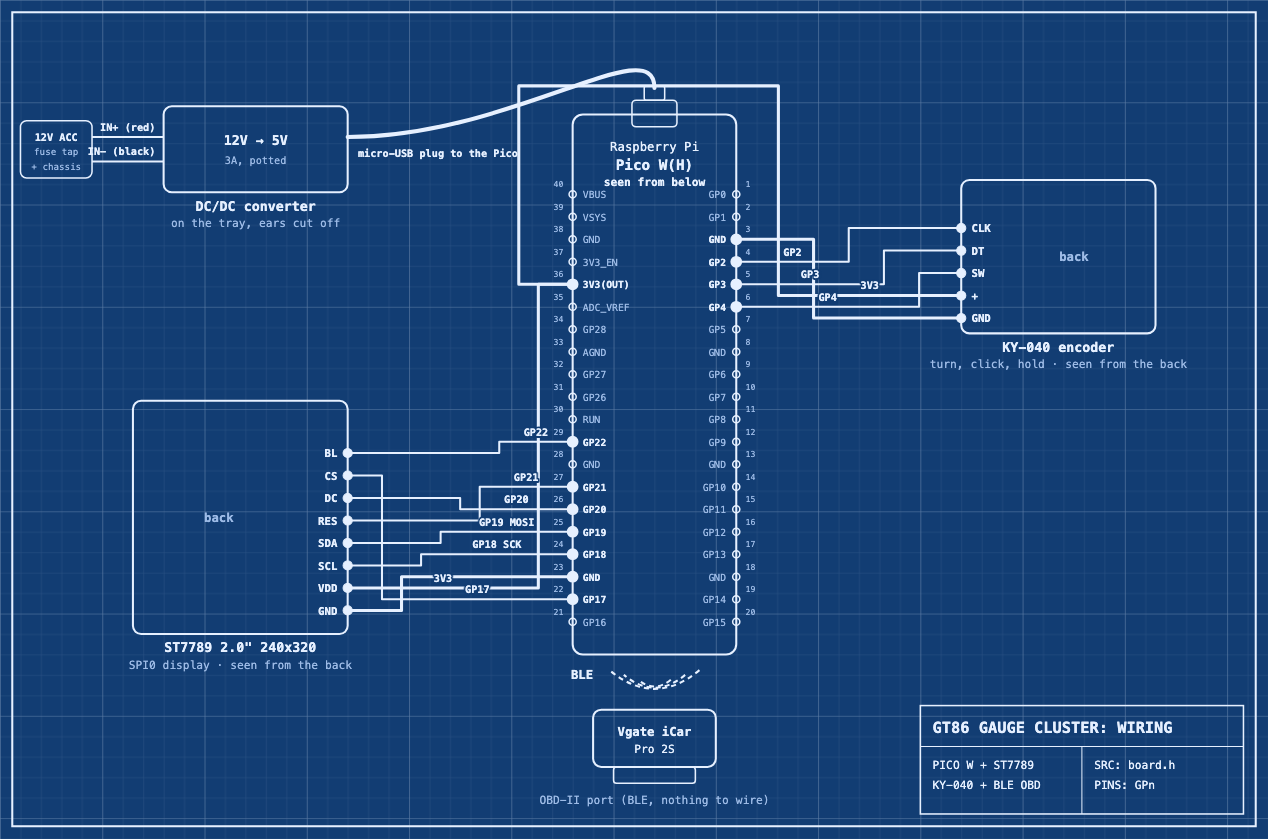
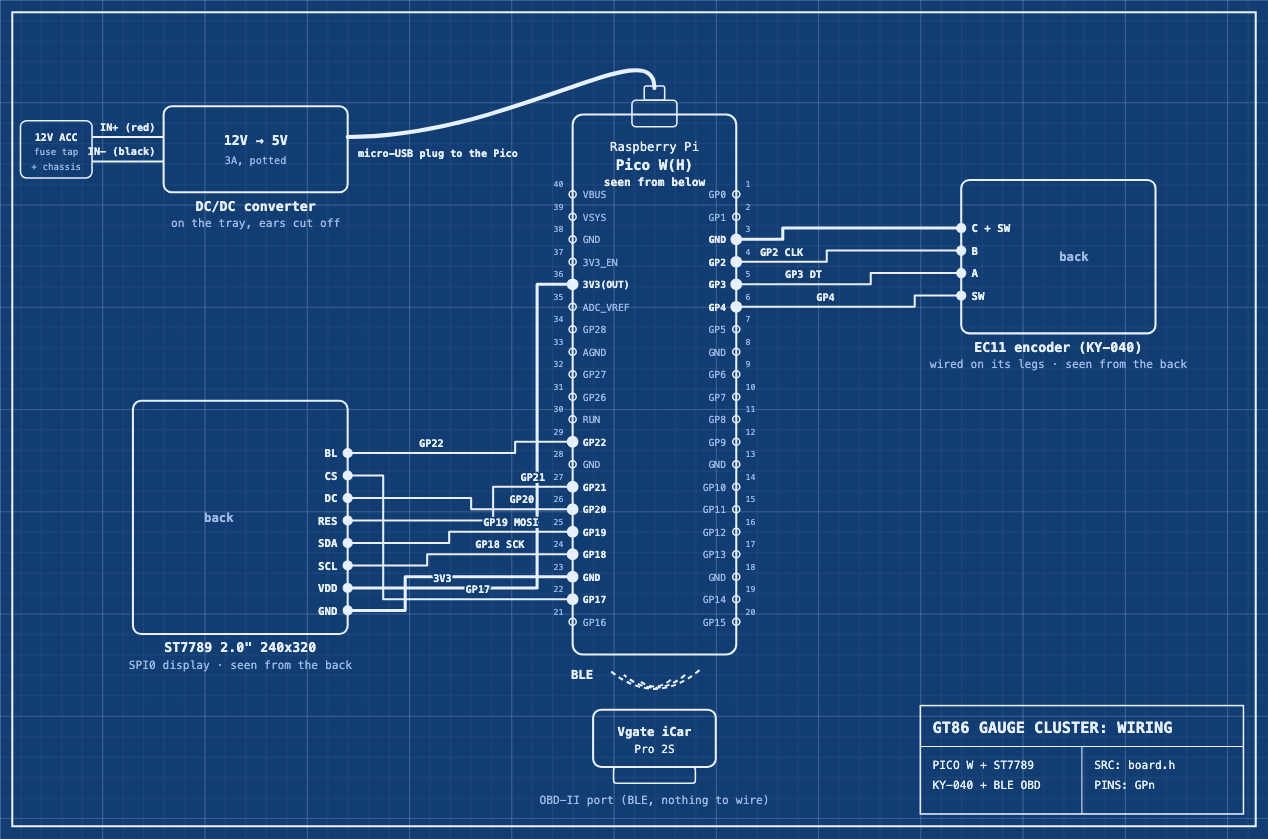
docs: encoder wired on its legs (A on GP3, B on GP2, no bridge, R2 and R3 removed) with a drawing of the board as soldered, OBD cable colors (CAN-H green, CAN-L green/white)

diff --git a/docs/wiring.html b/docs/wiring.html
@@ -24,6 +24,7 @@
   #diagram.dragging { cursor: grabbing; }
   #diagram .module { cursor: pointer; }
   nav .hint { align-self: center; font-size: 13px; opacity: 0.7; }
+  #encoder-legs { height: 540px; margin-top: 16px; border: 1px solid rgb(127 127 127 / 0.35); border-radius: 10px; }
   .notes { display: grid; gap: 12px; grid-template-columns: repeat(auto-fill, minmax(280px, 1fr)); margin-top: 16px; }
   .note { border: 1px solid rgb(127 127 127 / 0.35); border-radius: 10px; padding: 12px 14px; }
   .note b { display: block; margin-bottom: 4px; }
@@ -88,12 +89,13 @@
 </nav>
 <main id="wiring">
   <svg id="diagram" viewBox="0 0 1240 820" role="img" aria-label="Wiring diagram"></svg>
+  <svg id="encoder-legs" viewBox="0 0 1000 540" role="img" aria-label="The encoder's legs, soldered"></svg>
   <div class="notes">
     <div class="note"><b>Never 12V on the Pico</b>Only through the 12V to 5V converter, its micro-USB plug in the Pico's socket. Take a switched 12V (ACC/ignition fuse tap), not OBD pin 16: it stays live with the car off.</div>
-    <div class="note"><b>3.3V logic only</b>The encoder's + goes to 3V3(OUT), not 5V: its pull-ups would put 5V on the RP2040, which isn't 5V tolerant.</div>
+    <div class="note"><b>Encoder on its legs</b>Wires soldered straight on the EC11's legs, the KY-040 board's header unused: the Pico's internal pull-ups on GP2-4 replace the board's, nothing powers it. Turning the wrong way: swap A and B.</div>
     <div class="note"><b>Keep GP15 free</b>The pico-sdk borrows it at boot (RP2040-E5). GPIO23, 24, 25 and 29 belong to the wireless chip.</div>
     <div class="note"><b>OBD dongle: no wire</b>The Vgate iCar Pro 2S plugs into the OBD port; the Pico W talks to it over BLE. One client at a time: a phone connected to it hides it.</div>
-    <div class="note"><b>MCP2515 (wired CAN)</b>VCC on VBUS (5V). Its SO swings to 5V: level shift it before GP12. Remove jumper J1 (120Ω termination). 8MHz crystal, 500kbps.</div>
+    <div class="note"><b>MCP2515 (wired CAN)</b>VCC on VBUS (5V). Its SO swings to 5V: level shift it before GP12. Remove jumper J1 (120Ω termination). 8MHz crystal, 500kbps. On the OBD cable: CAN-H pin 6 green, CAN-L pin 14 green/white (the seller's chart: check with a multimeter); never pin 16, red, the battery's 12V.</div>
     <div class="note"><b>Flashing in the car</b>The Pico has one USB socket: unplug the converter's micro-USB, plug the Mac's cable instead.</div>
   </div>
 </main>
@@ -164,15 +166,19 @@ const MODULES = [
     ],
   },
   {
-    id: "encoder", kind: "encoder", name: "KY-040 encoder", sub: "turn, click, hold",
+    id: "encoder", kind: "encoder", name: "EC11 encoder (KY-040)", sub: "wired on its legs",
     x: 110, y: 176, w: 190, h: 150, side: "left", pinTop: 223,
-    // Front: knob up, header at the top, CLK DT SW + GND from the left.
+    // Soldered on the encoder's own legs, not the board's header: its row
+    // of 3 (A, C in the middle, B) and of 2 (the button). The Pico's internal pull-ups
+    // replace the board's, so no power goes to it. The board's traces
+    // tie C to one button leg: one GND wire for both. A on GP3 and B on
+    // GP2: the way that turns right on this car. R2 and R3 are removed. Listed in the Pico's order: no
+    // header to follow, so no wire crosses another.
     pins: [
-      { label: "CLK", pico: 4, net: "clk", wire: "GP2" },
-      { label: "DT", pico: 5, net: "dt", wire: "GP3" },
+      { label: "C + SW", pico: 3, net: "gnd" },
+      { label: "B", pico: 4, net: "clk", wire: "GP2 CLK" },
+      { label: "A", pico: 5, net: "dt", wire: "GP3 DT" },
       { label: "SW", pico: 6, net: "sw", wire: "GP4" },
-      { label: "+", pico: 36, net: "v33", wire: "3V3" },
-      { label: "GND", pico: 3, net: "gnd" },
     ],
   },
   {
@@ -190,8 +196,8 @@ const MODULES = [
     ],
     // The screw terminal, on the far edge: CAN-L above CAN-H seen from the front.
     edgePins: [
-      { label: "CAN-L", note: "OBD pin 14", net: "spi1" },
-      { label: "CAN-H", note: "OBD pin 6", net: "spi1" },
+      { label: "CAN-L", note: "OBD 14 · green/white", net: "spi1" },
+      { label: "CAN-H", note: "OBD 6 · green", net: "spi1" },
     ],
   },
 ];
@@ -486,7 +492,7 @@ function drawCar(svg, theme) {
     svgText(svg, theme, 660, 664, "BLE", { size: 12, weight: 700, color: link });
   }
   svgElement("rect", { x: 560, y: 750, width: 80, height: 16, rx: 3, fill: theme.board ? "#57534e" : "none", stroke, "stroke-width": 1.5 }, svg);
-  const port = wiringView.source === "ble" ? "OBD-II port (BLE, nothing to wire)" : "OBD-II port: CAN-H pin 6, CAN-L pin 14";
+  const port = wiringView.source === "ble" ? "OBD-II port (BLE, nothing to wire)" : "OBD-II port: CAN-H pin 6 (green), CAN-L pin 14 (green/white)";
   svgText(svg, theme, 600, 786, port, { size: 11, anchor: "middle", color: theme.dim });
 }
 
@@ -536,8 +542,134 @@ function drawDiagram(style) {
   }
   drawCar(layer, theme);
   mirrored = false;
+  drawEncoderLegs(theme);
   document.body.className = style;
   showSelectedNet();
+}
+
+// The KY-040 seen from its back, as screwed on the dash (header at the
+// top), wired on the encoder's own legs: its header's pads are gone. The
+// legs' places are read off a photo of the board, in mm from its top
+// left corner. Not mirrored with the Pico: it shows the board as you see
+// it with the iron in hand.
+const ENCODER_LEGS = {
+  board: [18.5, 26],
+  header: [3.9, 6.44, 8.98, 11.52, 14.06].map((x, i) => ({ x, y: 1.9, label: ["GND", "+", "SW", "DT", "CLK"][i] })),
+  shaft: [8.9, 15],
+  rivets: [[1.6, 6.3], [1.6, 19.8]],
+  // R2 and R3, A's and B's pull-ups to +: with the + pad gone, they tie A
+  // and B together through 20K, and the knob skips every other click.
+  // Removed: the Pico's own pull-ups do the job. R1 (the button's) is empty.
+  resistors: [{ label: "R2 remove", x: [9, 11.7], y: 14.6 }, { label: "R3 remove", x: [9, 11.7], y: 17.9 }],
+  r1: { x: 11.4, y: [10.3, 12.3] },
+  // The board's own traces tie C to the button's left leg: the right one,
+  // next to R1, is the button's signal. Bridging C to it shorts the button.
+  legs: [
+    { x: 6.4, y: 8, label: "SW", net: "gnd" },
+    { x: 11.4, y: 8, label: "SW", net: "sw", to: "GP4 · Pico pin 6", route: [[11.4, 4.6]] },
+    { x: 6.4, y: 22.5, label: "A", net: "dt", to: "GP3 · Pico pin 5", route: [[6.4, 25.4]] },
+    { x: 8.9, y: 22.5, label: "C", net: "gnd", to: "GND · Pico pin 3", route: [[8.9, 24.4]] },
+    { x: 11.4, y: 22.5, label: "B", net: "clk", to: "GP2 · Pico pin 4", route: [[11.4, 23.4]] },
+  ],
+  // C to the button's left leg, through the board: nothing to solder.
+  trace: [[6.4, 8], [4.6, 9.5], [4.6, 20.5], [8.9, 22.5]],
+};
+
+function drawEncoderLegs(theme) {
+  const svg = document.getElementById("encoder-legs");
+  svg.replaceChildren();
+  svgElement("rect", { x: 0, y: 0, width: 1000, height: 540, fill: theme.background }, svg);
+  const e = ENCODER_LEGS;
+  const S = 16; // px per mm
+  const [ox, oy] = [110, 96];
+  const at = ([x, y]) => [ox + x * S, oy + y * S];
+  const labelX = ox + 24 * S;
+  const light = theme.board ? "#fff" : theme.text;
+  const dark = theme.board ? "#0b1220" : theme.background;
+  svgText(svg, theme, 24, 34, "KY-040 encoder, soldered on its legs", { size: 16, weight: 700 });
+  svgText(svg, theme, 24, 54, "seen from the back, as on the dash: header at the top, knob behind", { size: 12, color: theme.dim });
+
+  const [w, h] = e.board;
+  svgElement("rect", { x: ox, y: oy, width: w * S, height: h * S, rx: 6, fill: theme.board ? theme.board.encoder : "none",
+               stroke: theme.board ? "#334155" : theme.line, "stroke-width": 2 }, svg);
+  // The encoder's body, on the knob side: dashed.
+  const [sx, sy] = at(e.shaft);
+  svgElement("rect", { x: sx - 6.25 * S, y: sy - 6.25 * S, width: 12.5 * S, height: 12.5 * S, fill: "none", stroke: theme.dim,
+               "stroke-width": 1.2, "stroke-dasharray": "6 4" }, svg);
+  svgText(svg, theme, ox - 8, sy - 2, "encoder body", { size: 10.5, anchor: "end", color: theme.dim });
+  svgText(svg, theme, ox - 8, sy + 12, "(dashed, knob side)", { size: 10.5, anchor: "end", color: theme.dim });
+
+  for (const [x, y] of e.rivets.map(at)) {
+    svgElement("circle", { cx: x, cy: y, r: 1.8 * S, fill: theme.board ? "#f5f5f4" : "none", stroke: theme.board ? "#a8a29e" : theme.line, "stroke-width": 1.5 }, svg);
+  }
+  svgText(svg, theme, ox - 8, at(e.rivets[0])[1] - 2.2 * S, "filament rivets", { size: 10.5, anchor: "end", color: theme.dim });
+
+  for (const r of e.resistors) {
+    for (const x of r.x) {
+      const [px, py] = at([x, r.y]);
+      svgElement("rect", { x: px - 0.6 * S, y: py - 0.5 * S, width: 1.2 * S, height: S, fill: theme.board ? "#cbd5e1" : "none", stroke: light, "stroke-width": 1 }, svg);
+    }
+    const [lx, ly] = at([(r.x[0] + r.x[1]) / 2, r.y]);
+    svgElement("rect", { x: lx - 0.75 * S, y: ly - 0.45 * S, width: 1.5 * S, height: 0.9 * S, fill: "#111827", stroke: light, "stroke-width": 0.6 }, svg);
+    const half = 1.8 * S;
+    svgElement("path", { d: `M ${lx - half} ${ly - 0.7 * S} L ${lx + half} ${ly + 0.7 * S} M ${lx + half} ${ly - 0.7 * S} L ${lx - half} ${ly + 0.7 * S}`,
+                 stroke: "#dc2626", "stroke-width": 2 }, svg);
+    svgText(svg, theme, at([5.6, r.y])[0], ly + 4, r.label, { size: 10, anchor: "end", color: light });
+  }
+  const [r1x, r1y0] = at([e.r1.x, e.r1.y[0]]);
+  const r1y1 = at([e.r1.x, e.r1.y[1]])[1];
+  svgElement("rect", { x: r1x - 0.6 * S, y: r1y0 - 0.5 * S, width: 1.2 * S, height: r1y1 - r1y0 + S, fill: "none", stroke: light,
+               "stroke-width": 1, "stroke-dasharray": "3 3" }, svg);
+  svgText(svg, theme, at([5.6, 0])[0], (r1y0 + r1y1) / 2 + 4, "R1 empty", { size: 10, anchor: "end", color: light });
+
+  // The header's pads: torn off, unused.
+  for (const pad of e.header) {
+    const [x, y] = at([pad.x, pad.y]);
+    svgElement("circle", { cx: x, cy: y, r: 0.8 * S, fill: "none", stroke: theme.dim, "stroke-width": 1.2, "stroke-dasharray": "3 2" }, svg);
+    svgElement("path", { d: `M ${x - 6} ${y - 6} L ${x + 6} ${y + 6} M ${x + 6} ${y - 6} L ${x - 6} ${y + 6}`, stroke: "#dc2626", "stroke-width": 2 }, svg);
+    svgText(svg, theme, x, oy - 8, pad.label, { size: 9.5, anchor: "middle", color: theme.dim });
+  }
+
+  // Each wire, ringed with the background so a dark one shows on the board.
+  const wire = (points, net, dashed) => {
+    const d = points.map(([x, y], i) => `${i ? "L" : "M"} ${x} ${y}`).join(" ");
+    svgElement("path", { d, fill: "none", stroke: dark === theme.background ? theme.background : "#e2e8f0", "stroke-width": theme.wireWidth + 3,
+                 "stroke-linejoin": "round", "stroke-linecap": "round" }, svg);
+    svgElement("path", { d, fill: "none", stroke: wireColor(theme, net), "stroke-width": theme.wireWidth, "stroke-linejoin": "round",
+                 "stroke-linecap": "round", ...(dashed ? { "stroke-dasharray": "8 5" } : {}) }, svg);
+  };
+  // The board's trace from C to the button's left leg: thin, it's copper, not a wire.
+  const trace = e.trace.map(at).map(([x, y], i) => `${i ? "L" : "M"} ${x} ${y}`).join(" ");
+  svgElement("path", { d: trace, fill: "none", stroke: theme.board ? "#b45309" : theme.line, "stroke-width": 2, "stroke-dasharray": "2 3" }, svg);
+  const [tx, ty] = at([4.6, 14]);
+  svgText(svg, theme, tx + 6, ty + 30, "board trace", { size: 10, color: light });
+  svgText(svg, theme, tx + 6, ty + 43, "C to SW", { size: 10, color: light });
+  for (const leg of e.legs.filter((l) => l.to)) {
+    const points = [[leg.x, leg.y], ...leg.route].map(at);
+    const y = points.at(-1)[1];
+    wire([...points, [labelX - 10, y]], leg.net);
+    svgText(svg, theme, labelX, y + 4, leg.to, { size: 12, weight: 700, color: theme.net ? theme.net[leg.net] === "#1c1917" ? theme.text : theme.net[leg.net] : theme.text });
+  }
+  for (const leg of e.legs) {
+    const [x, y] = at([leg.x, leg.y]);
+    svgElement("circle", { cx: x, cy: y, r: 0.85 * S, fill: theme.pin, stroke: theme.board ? "#78350f" : theme.line, "stroke-width": 1.2 }, svg);
+    svgElement("circle", { cx: x, cy: y, r: 0.3 * S, fill: theme.board ? "#1c1917" : theme.background }, svg);
+    svgText(svg, theme, x, y - 1.2 * S, leg.label, { size: 11, weight: 700, anchor: "middle", color: light });
+  }
+
+  // What to know, beside the drawing.
+  const notes = [
+    ["No bridge to solder", "one would short the button: stuck pressed"],
+    ["Row of 3: A, C, B", "C, the middle one, is the common: GND"],
+    ["Row of 2: the button", "the right one to GP4; the board ties the left to C"],
+    ["R2 and R3: remove them", "+ is gone: they tie A to B, every other click lost"],
+    ["Turns the wrong way?", "swap GP2 and GP3 at the Pico"],
+    ["No + wire", "the Pico's pull-ups replace R2 and R3"],
+  ];
+  notes.forEach(([title, text], i) => {
+    svgText(svg, theme, labelX + 230, 150 + i * 46, title, { size: 12, weight: 700 });
+    svgText(svg, theme, labelX + 230, 166 + i * 46, text, { size: 11.5, color: theme.dim });
+  });
 }
 
 function turnOver(id) {

diff --git a/docs/wiring.md b/docs/wiring.md
@@ -36,19 +36,38 @@ It's SPI, not I2C: no MISO, the display is write-only.
 
 ## Rotary encoder: KY-040 (EC11)
 
-| KY-040 pin | Pico W pin | Notes |
+Wired on the EC11's own legs, through the KY-040 board's holes, not on
+its header (whose pads can lift off when resoldering it): the legs are
+a row of 3 (A, C in the middle, B) and a row of 2 (the button). The
+Pico's internal pull-ups on GP2, GP3 and GP4 replace the board's, so
+nothing powers the encoder. The board's own traces already tie C to one
+button leg: one GND wire for both, and no bridge to add (one from C to the
+other leg shorts the button: stuck pressed, and the 1s hold reboots in a
+loop). With a multimeter, the button leg that beeps with C is that one;
+GP4 goes on the other (on the KY-040, the one next to R1).
+
+**Remove R2 and R3** (the board's 10K pull-ups on A and B): they go to
++, and with + unwired they tie A and B together through 20K. A closed
+contact then drags the other line to about 0.9V, which the RP2040 reads
+either way: the knob skips every other click. Without them, the Pico's
+internal pull-ups do the job (or wire + to 3V3(OUT) and keep them).
+
+| EC11 leg | Pico W pin | Notes |
 |---|---|---|
-| CLK | GP2 | quadrature A, read on interrupts |
-| DT | GP3 | quadrature B |
-| SW | GP4 | push button, active low; the Pico's internal pull-up is used |
-| + | 3V3(OUT) | **not 5V**: the board's pull-ups go to +, and the RP2040 isn't 5V tolerant |
-| GND | GND | |
+| B (row of 3, an end) | GP2 | quadrature (the header's CLK), read on interrupts |
+| A (row of 3, the other end) | GP3 | quadrature (the header's DT) |
+| button leg not tied to C (next to R1) | GP4 | push button, active low (the header's SW) |
+| C (row of 3, middle) | GND | the board ties the other button leg to it |
+
+With its header intact, the same goes through it: CLK, DT and SW as
+above, GND, and + left unwired (or on 3V3(OUT), never 5V: the board's
+pull-ups go to +, and the RP2040 isn't 5V tolerant).
 
 Turn on the gauges: every gauge, then each one alone, big. Click on the
 gauges: settings page (turn to pick a row, click to change it, Back to
 leave); while the screen says "press to connect" or "press to retry",
 the click goes to the connection instead. Hold 1s: reboot. If turning
-goes the wrong way, swap CLK and DT. `STEPS_PER_DETENT` in
+goes the wrong way, swap A and B (CLK and DT). `STEPS_PER_DETENT` in
 `src/firmware/knob.c` is 2, for a half-step encoder (the one on this
 car); if one click moves two rows, it's a full-step one: set it to 4.
 
@@ -136,8 +155,26 @@ faster, and gets oil temperature, but needs the wiring below.
 | INT  | *(unused)* | firmware polls instead of using the interrupt pin |
 | VCC  | VBUS (5V, physical pin 40) | the TJA1050 transceiver on most boards needs 5V |
 | GND  | GND | |
-| CAN-H | OBD-II pin 6 | |
-| CAN-L | OBD-II pin 14 | |
+| CAN-H | OBD-II pin 6 | green on the OBD cable used here |
+| CAN-L | OBD-II pin 14 | green/white, twisted with CAN-H |
+
+The OBD cable's colors, from its seller's chart (no standard: another
+cable has its own; check each with a multimeter's continuity before
+soldering):
+
+| OBD pin | Color | | OBD pin | Color |
+|---|---|---|---|---|
+| 1 | brown | | 9 | red/white |
+| 2 | brown/white | | 10 | white |
+| 3 | purple | | 11 | yellow |
+| 4 | orange (chassis ground) | | 12 | pink |
+| 5 | light blue (signal ground) | | 13 | grey |
+| 6 | **green: CAN-H** | | 14 | **green/white: CAN-L** |
+| 7 | black | | 15 | blue |
+| 8 | black/white | | 16 | red (battery 12V, always live: not for the converter) |
+
+Only green and green/white go to the MCP2515; insulate every other wire
+on its own.
 
 **The RP2040 is not 5V tolerant.** On the common blue MCP2515 +
 TJA1050 board, powering it from 5V makes SO swing to 5V, straight into

diff --git a/CLAUDE.md b/CLAUDE.md
@@ -54,5 +54,5 @@ Adding a signal: a `signal_t` value, a decoder case in `obd.c` (or a sensor func
 - Flash, from the end of the 2MB: BTstack's own two sectors (`pico_btstack_flash_bank`), the 64KB log ring, the settings sector, then the data log down to the first megabyte. `store_init` refuses to touch flash if the firmware ever reaches the settings sector, and turns the data log off if it reaches the first megabyte. Flash writes go through `flash_safe_execute` (interrupts off): `log_line` is for events only, never per frame or per OBD reply.
 - Crashes leave a trace: the watchdog (8s, fed once per loop) reboots a frozen board and the next boot logs it; `PICO_PANIC_FUNCTION=crash_panic` writes the panic message to the flash log; `isr_hardfault` marks watchdog scratch 1 and the next boot logs it.
 - USB serial is TinyUSB (`pico_stdio_usb`): the 1200 baud touch reboots into BOOTSEL, which `mise run flash` relies on.
-- Hardware facts that constrain the code (see `docs/wiring.md`): the RP2040 is not 5V tolerant (MCP2515 SO line needs level shifting, the KY-040 goes on 3V3). GPIO23/24/25/29 belong to the wireless chip, GP15 to the SDK's RP2040-E5 USB workaround. The flex-fuel sensor outputs 0.5-4.5V, so it goes through `ETHANOL_DIVIDER` (a test asserts the divided max stays under 3.3V). `ADC_VREF` is a calibration knob.
+- Hardware facts that constrain the code (see `docs/wiring.md`): the RP2040 is not 5V tolerant (MCP2515 SO line needs level shifting, the encoder is wired on its legs with the Pico's internal pull-ups, its board's + never on 5V). GPIO23/24/25/29 belong to the wireless chip, GP15 to the SDK's RP2040-E5 USB workaround. The flex-fuel sensor outputs 0.5-4.5V, so it goes through `ETHANOL_DIVIDER` (a test asserts the divided max stays under 3.3V). `ADC_VREF` is a calibration knob.
 - Pin constants in `src/firmware/board.h` and the tables in `docs/wiring.md` must stay in sync. Same for the panel size in `board.h` and `sim/main.c`.

diff --git a/TODO.md b/TODO.md
@@ -30,5 +30,5 @@
 - [x] Schéma de câblage : fils de couleurs différentes jamais superposés (broches des modules décalées d'un demi-pas), étiquettes lisibles par-dessus les fils
 - [x] Sélecteur de source dans les réglages (Data source : BLE / CAN), appliqué par un redémarrage en quittant la page ; le MCP2515 peut rester câblé en BLE, les lignes qui ont besoin du dongle sont grisées en CAN
 - [ ] Transfo : couper ses oreilles au ras du boîtier
-- [ ] Encodeur : dessouder le connecteur coudé et le ressouder au dos de la carte (côté opposé au potard)
+- [x] Encodeur : pastilles du connecteur arrachées, 4 fils soudés sur ses pattes (C vers GND, A GP2, B GP3, la patte du bouton à côté de R1 vers GP4 ; pas de pont : la carte relie déjà C à l'autre patte du bouton, un pont le court-circuite), colle chaude dessus ; A sur GP3 et B sur GP2 pour le bon sens ; enlever R2 et R3 (le + en l'air relie A et B par 20K : un cran sur deux perdu)
 - [ ] Façade : fixation dans la voiture (où elle va, comment elle tient)
